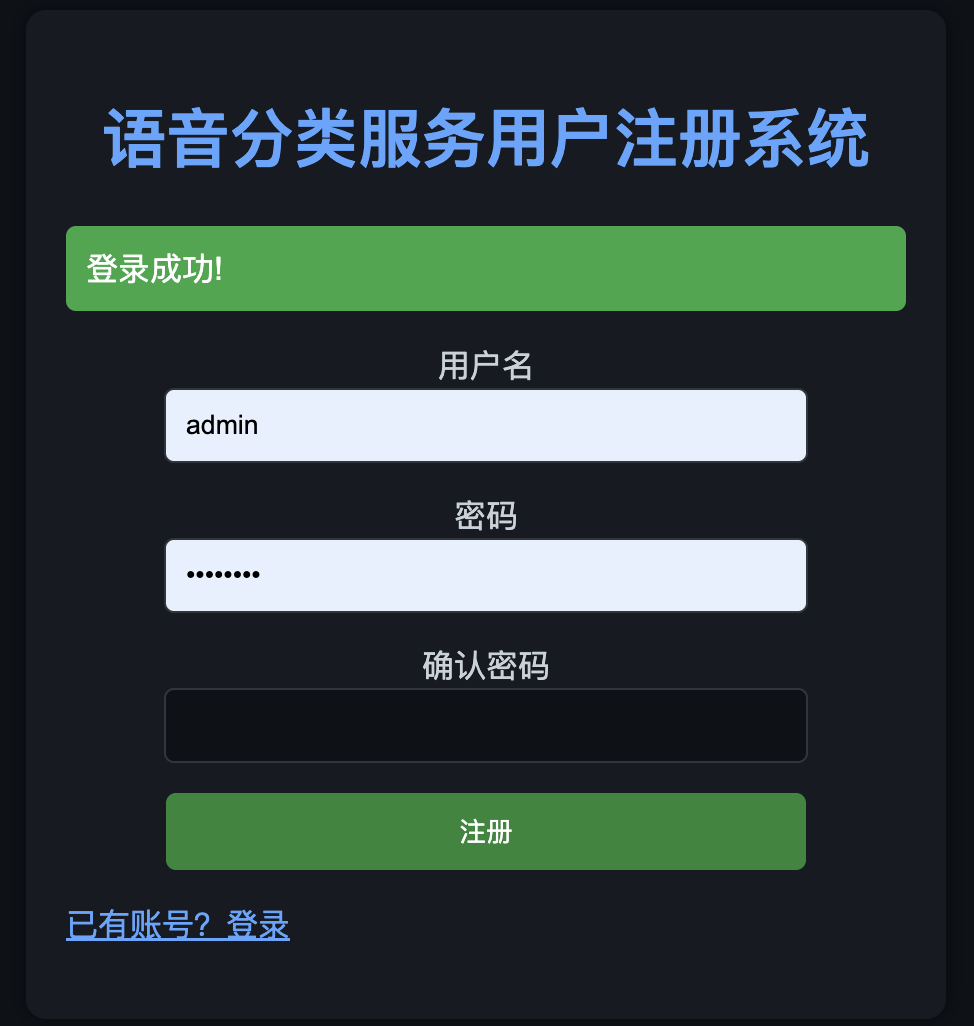
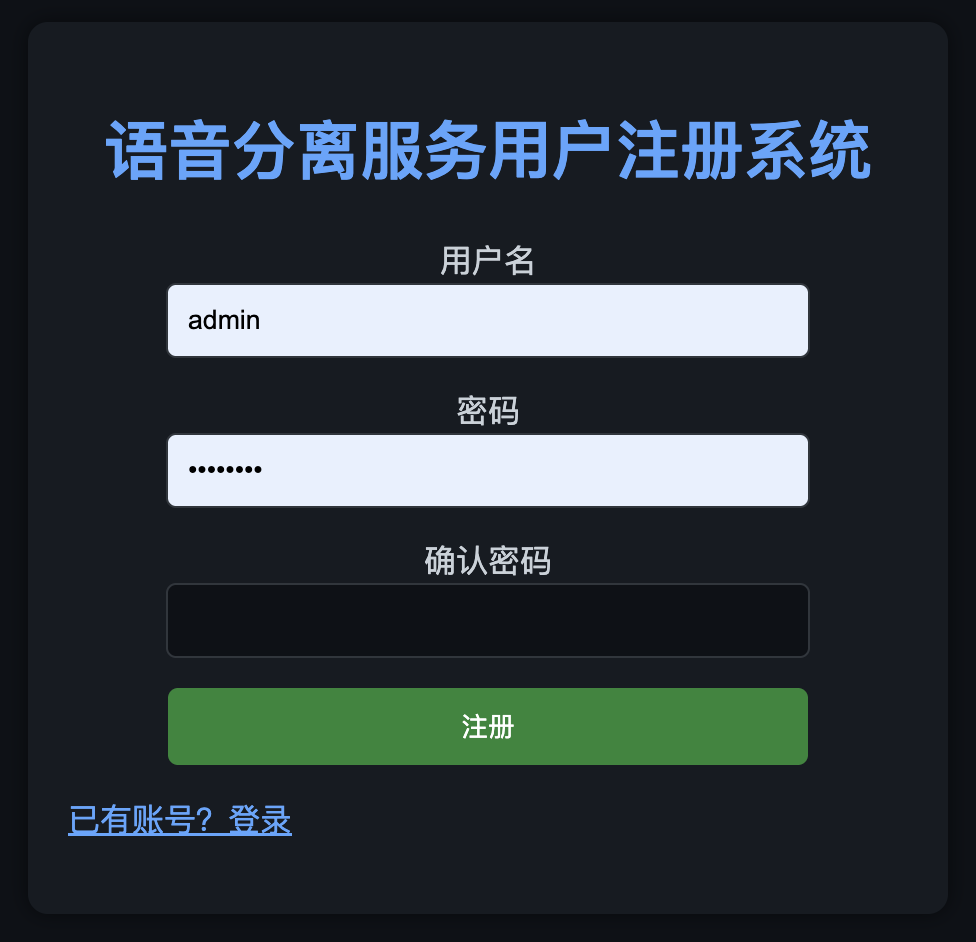
[Feature] Update img

diff --git a/templates/user_management.html b/templates/user_management.html
@@ -2,7 +2,7 @@
 <html lang="en">
 <head>
     <meta charset="UTF-8">
-    <title>语音分类服务用户管理系统</title>
+    <title>语音分离服务用户管理系统</title>
     <style>
         /* General styling */
         body {
@@ -99,7 +99,7 @@
     <div class="container">
         <!-- 页面标题和退出按钮 -->
         <div class="header">
-            <h1>语音分类服务用户管理系统</h1>
+            <h1>语音分离服务用户管理系统</h1>
             <div>
                 <!-- 新增用户按钮，用于控制表单显示 -->
                 <button id="btn-add-user" class="btn-green">新增用户</button>

diff --git a/templates/admin_login.html b/templates/admin_login.html
@@ -1,6 +1,6 @@
 {% extends "base.html" %}
 {% block title %}管理员登录{% endblock %}
-{% block header %}语音分类服务管理员登录系统{% endblock %}
+{% block header %}语音分离服务管理员登录系统{% endblock %}
 {% block content %}
     <form method="POST" action="{{ url_for('admin_login') }}">
         {{ form.hidden_tag() }}

diff --git a/templates/register.html b/templates/register.html
@@ -1,6 +1,6 @@
 {% extends "base.html" %}
 {% block title %}用户注册{% endblock %}
-{% block header %}语音分类服务用户注册系统{% endblock %}
+{% block header %}语音分离服务用户注册系统{% endblock %}
 {% block content %}
     <form method="POST" action="{{ url_for('register') }}">
         {{ form.hidden_tag() }}

diff --git a/templates/login.html b/templates/login.html
@@ -1,6 +1,6 @@
 {% extends "base.html" %}
 {% block title %}用户登录{% endblock %}
-{% block header %}语音分类服务用户登录系统{% endblock %}
+{% block header %}语音分离服务用户登录系统{% endblock %}
 {% block content %}
     <form method="POST" action="{{ url_for('login') }}">
         {{ form.hidden_tag() }}

diff --git a/gradio_demucs.py b/gradio_demucs.py
@@ -9,7 +9,7 @@ def inference(audio):
   os.system("python -m demucs.separate -n htdemucs --two-stems=vocals -d cpu test.wav -o out")
   return "./out/htdemucs/test/vocals.wav","./out/htdemucs/test/no_vocals.wav"
     
-title = "语音分类系统的设计与实现项目演示"
+title = "语音分离系统的设计与实现项目演示"
 description = "功能是基于Demucs将歌曲中的伴奏和人声分离，可以上传歌曲文件，也可以实时播放音乐.\n项目部署在笔记本上，使用的M2 CPU进行实时推理"
 
 examples=[['稻香.mp3']]
